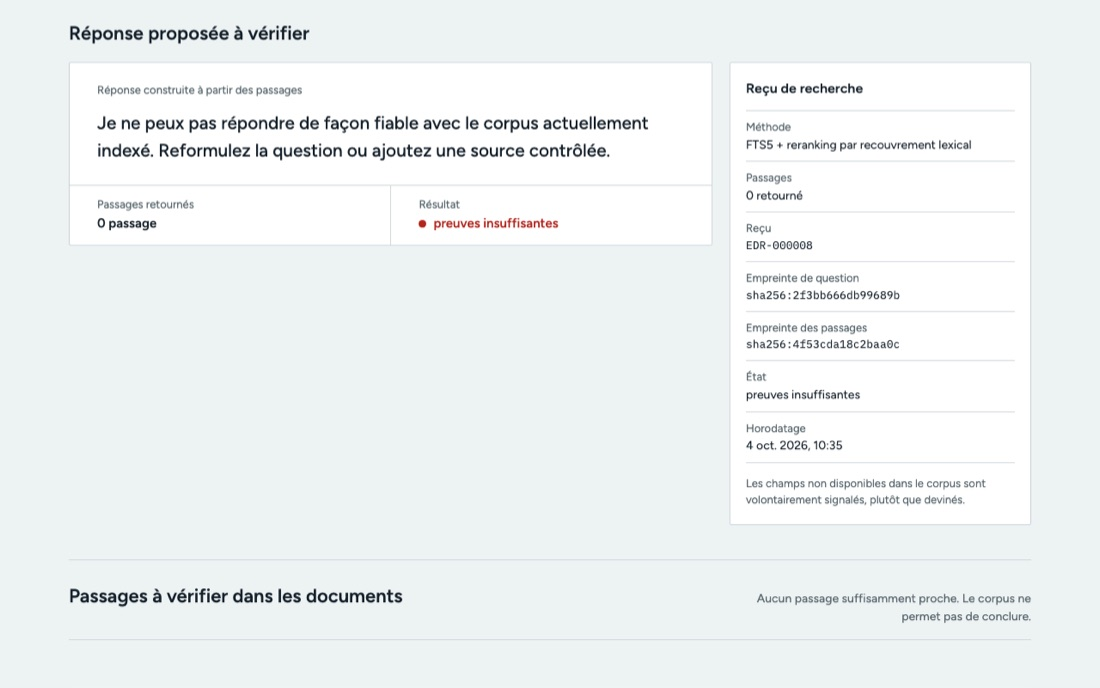
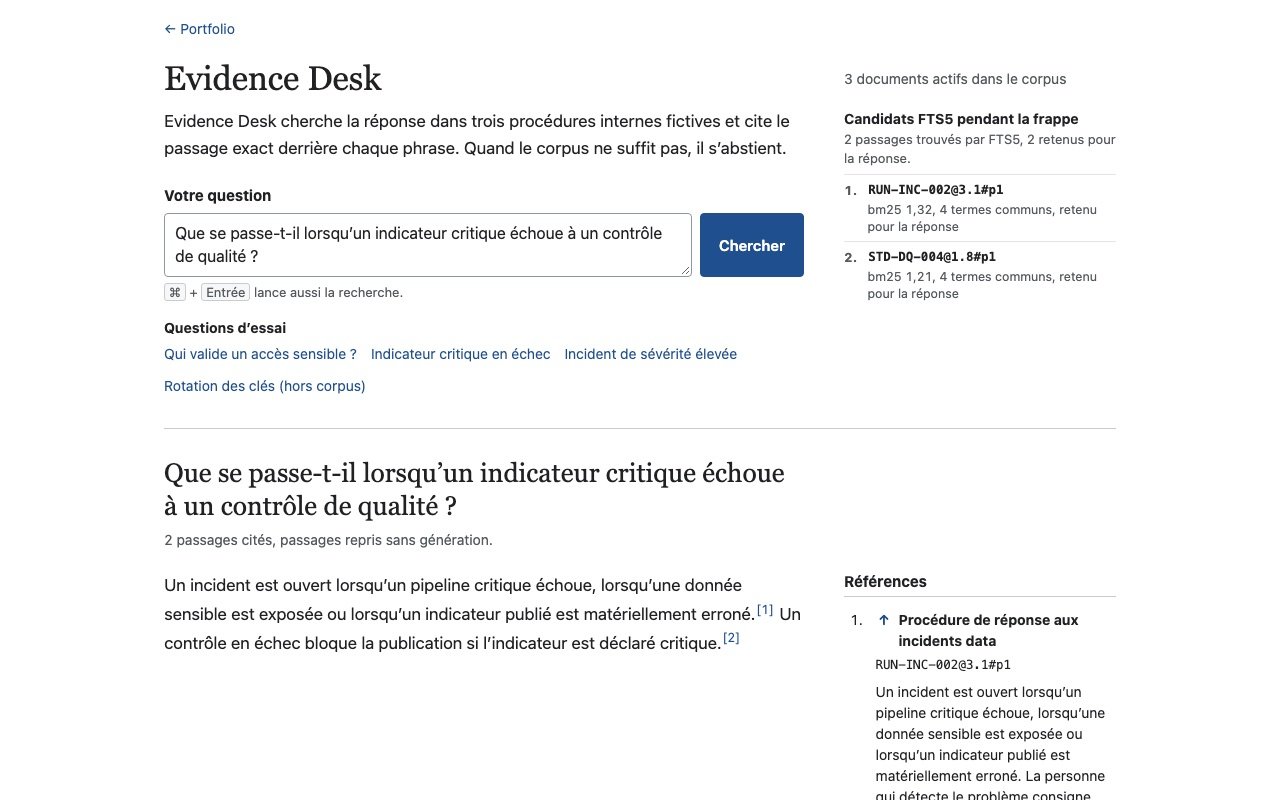
Montrer les démos refaites et dire ce qu'on peut y faire
Six nouvelles captures (état initial de chaque démo), légendes qui décrivent
l'interaction possible, et note Kafka mise à jour : le rejet rejoué de
Routier est désormais reconnaissable.

diff --git a/index.html b/index.html
@@ -13,7 +13,7 @@
     <meta property="og:url" content="https://ikel0.github.io/" />
     <meta property="og:title" content="Ikel Ouedraogo · Data Engineer, Analytics &amp; IA" />
     <meta property="og:description" content="Data Engineer orienté analytics : pipelines fiables, modèles SQL, KPI et dashboards Power BI, et IA appliquée vérifiable." />
-    <meta property="og:image" content="https://ikel0.github.io/media/comptoir.jpg?v=20261005i" />
+    <meta property="og:image" content="https://ikel0.github.io/media/comptoir.jpg?v=20261005k" />
     <meta property="og:locale" content="fr_FR" />
     <meta name="twitter:card" content="summary" />
     <link rel="icon" href="favicon-96x96.png" type="image/png" sizes="96x96" />
@@ -49,12 +49,12 @@
       <section class="section shell" id="projets">
         <div class="section-head"><div><h2>Projets</h2></div><p>Des projets personnels, avec leur code. Les démos hébergées sur Render peuvent mettre 30 à 50 secondes à démarrer.</p></div>
         <div class="project-list">
-          <article class="project-row"><span class="project-number">01</span><div><p class="project-kind">Analytics / note d’analyse</p><h3>Comptoir</h3><p class="project-summary">Note d’analyse sur 96&nbsp;470 commandes réelles d’Olist. 29&nbsp;% des avis à 1 ou 2 étoiles sont déposés avant la livraison, parce que le questionnaire part à la date estimée. Les règles de date de livraison sont calibrées sur 2017 et testées sur 2018 : recalculer la date par trajet ne fait pas mieux qu’Olist, et la note le dit.</p><div class="project-links"><a href="https://ikel0.github.io/comptoir/" target="_blank" rel="noopener">Note</a><a href="https://github.com/Ikel0/comptoir" target="_blank" rel="noopener">Code</a><a href="https://github.com/Ikel0/comptoir/blob/main/METRICS.md" target="_blank" rel="noopener">Indicateurs</a></div><figure class="project-shot"><img src="media/comptoir.jpg?v=20261005i" width="1280" height="799" loading="lazy" alt="Graphique de la note Comptoir" /><figcaption>À délai égal, une date dépassée s’accompagne de 3 à 4 fois plus d’avis à 1 ou 2 étoiles.</figcaption></figure></div><p class="project-stack">DuckDB / dbt / SQL<br />Backtest</p></article>
-          <article class="project-row"><span class="project-number">02</span><div><p class="project-kind">Analytics · Data engineering / retail</p><h3>Retail Core</h3><p class="project-summary">Cockpit retail sur données synthétiques : performance par canal, stock disponible à la promesse, Customer 360 et segmentation RFM. En amont, Airflow et dbt (19 modèles, 78 tests) alimentent les KPI, et une réconciliation ventes / paiements bloque la publication si un chiffre ne tombe pas juste.</p><div class="project-links"><a href="https://ikel0.github.io/retail-core-lakehouse/" target="_blank" rel="noopener">Démo</a><a href="https://github.com/Ikel0/retail-core-lakehouse" target="_blank" rel="noopener">Code</a><a href="https://github.com/Ikel0/retail-core-lakehouse/blob/main/docs/ARCHITECTURE.md" target="_blank" rel="noopener">Architecture</a></div><figure class="project-shot"><img src="media/retail.jpg?v=20261005i" width="1280" height="800" loading="lazy" alt="Capture du tableau de bord Retail Core" /><figcaption>Ventes par canal sur 30 jours, avec le statut du dernier run et la réconciliation.</figcaption></figure></div><p class="project-stack">SQL / dbt / DuckDB<br />Airflow<br />AWS local, Terraform<br />KPI / RFM</p></article>
-          <article class="project-row"><span class="project-number">03</span><div><p class="project-kind">Data engineering / data contracts</p><h3>Pacte</h3><p class="project-summary">Avant une ingestion, Pacte contrôle schéma, validité, clés métier et volume. Il produit une décision d’admission, montre l’impact sur les actifs aval et conserve un reçu idempotent lié aux empreintes du lot et du contrat. La démo n’écrit aucune donnée réelle.</p><div class="project-links"><a href="https://pacte-ikel.onrender.com" target="_blank" rel="noopener">Démo</a><a href="https://github.com/Ikel0/pacte" target="_blank" rel="noopener">Code</a><a href="https://github.com/Ikel0/pacte/blob/main/docs/working-paper.md" target="_blank" rel="noopener">Fiche de travail</a></div><figure class="project-shot"><img src="media/pacte.jpg?v=20261005i" width="1280" height="800" loading="lazy" alt="Capture de la démo Pacte" /><figcaption>Un lot refusé : deux contrôles sur quatre en échec, cinq écarts bloquants.</figcaption></figure></div><p class="project-stack">Python / data contracts<br />Audit idempotent / lineage<br />SQLite</p></article>
-          <article class="project-row"><span class="project-number">04</span><div><p class="project-kind">Data engineering / événements</p><h3>Routier</h3><p class="project-summary">Chaîne Kafka de supervision de télémétrie : validation du contrat, traitement idempotent, événements rejetés, alertes et journal d’ingestion.</p><div class="project-links"><a href="https://routier-ikel.onrender.com" target="_blank" rel="noopener">Démo</a><a href="https://github.com/Ikel0/routier" target="_blank" rel="noopener">Code</a><a href="https://github.com/Ikel0/routier/blob/main/docs/runbook.md" target="_blank" rel="noopener">Runbook</a></div><figure class="project-shot"><img src="media/routier.jpg?v=20261005i" width="1280" height="800" loading="lazy" alt="Capture de la démo Routier" /><figcaption>Compteurs d’ingestion après le scénario, et deux alertes à prendre en charge.</figcaption></figure></div><p class="project-stack">Python<br />Kafka / Redpanda</p></article>
-          <article class="project-row"><span class="project-number">05</span><div><p class="project-kind">IA appliquée / RAG auditable</p><h3>Evidence Desk</h3><p class="project-summary">Espace de recherche documentaire local-first. Chaque réponse expose le passage utilisé, sa version, son autorité, sa fraîcheur et un reçu de retrieval. Si les preuves sont trop faibles, l’outil s’abstient. La suite Golden v2 évalue séparément retrieval, ancrage, traçabilité et refus sûr.</p><div class="project-links"><a href="https://github.com/Ikel0/evidence-desk" target="_blank" rel="noopener">Code</a><a href="https://github.com/Ikel0/evidence-desk/blob/main/docs/working-paper.md" target="_blank" rel="noopener">Fiche de travail</a></div><figure class="project-shot"><img src="media/evidence.jpg?v=20261005i" width="1100" height="688" loading="lazy" alt="Capture d’Evidence Desk" /><figcaption>Une question sans passage suffisant : réponse refusée, état « preuves insuffisantes » et reçu de recherche.</figcaption></figure></div><p class="project-stack">Python / SQLite FTS5<br />Évaluation Golden v2<br />HTTP API</p></article>
-          <article class="project-row"><span class="project-number">06</span><div><p class="project-kind">IA appliquée / opérations data</p><h3>Sillage</h3><p class="project-summary">Assistant de triage d’incidents data. Il relie un incident à un contrat et un runbook versionnés, expose les signaux et la provenance de la décision, puis laisse l’opérateur accepter, challenger ou rejeter le plan. Aucune action sur les données n’est automatisée.</p><div class="project-links"><a href="https://github.com/Ikel0/sillage-ai" target="_blank" rel="noopener">Code</a><a href="https://github.com/Ikel0/sillage-ai/blob/main/docs/working-paper.md" target="_blank" rel="noopener">Dossier technique</a></div><figure class="project-shot"><img src="media/sillage.jpg?v=20261005i" width="1280" height="800" loading="lazy" alt="Capture de Sillage" /><figcaption>Triage d’INC-2407 : signaux observés, score de correspondance décomposé et actions proposées, sans exécution.</figcaption></figure></div><p class="project-stack">FastAPI / SQLite<br />Docker / CI</p></article>
+          <article class="project-row"><span class="project-number">01</span><div><p class="project-kind">Analytics / note d’analyse</p><h3>Comptoir</h3><p class="project-summary">Note d’analyse sur 96&nbsp;470 commandes réelles d’Olist. 29&nbsp;% des avis à 1 ou 2 étoiles sont déposés avant la livraison, parce que le questionnaire part à la date estimée. Les règles de date de livraison sont calibrées sur 2017 et testées sur 2018 : recalculer la date par trajet ne fait pas mieux qu’Olist, et la note le dit.</p><div class="project-links"><a href="https://ikel0.github.io/comptoir/" target="_blank" rel="noopener">Note</a><a href="https://github.com/Ikel0/comptoir" target="_blank" rel="noopener">Code</a><a href="https://github.com/Ikel0/comptoir/blob/main/METRICS.md" target="_blank" rel="noopener">Indicateurs</a></div><figure class="project-shot"><img src="media/comptoir.jpg?v=20261005k" width="1280" height="800" loading="lazy" alt="Graphique de la note Comptoir" /><figcaption>À délai égal, une date dépassée s’accompagne de 3 à 4 fois plus d’avis à 1 ou 2 étoiles.</figcaption></figure></div><p class="project-stack">DuckDB / dbt / SQL<br />Backtest</p></article>
+          <article class="project-row"><span class="project-number">02</span><div><p class="project-kind">Analytics · Data engineering / retail</p><h3>Retail Core</h3><p class="project-summary">Cockpit retail sur données synthétiques : performance par canal, stock disponible à la promesse, Customer 360 et segmentation RFM. En amont, Airflow et dbt (19 modèles, 78 tests) alimentent les KPI, et une réconciliation ventes / paiements bloque la publication si un chiffre ne tombe pas juste.</p><div class="project-links"><a href="https://ikel0.github.io/retail-core-lakehouse/" target="_blank" rel="noopener">Démo</a><a href="https://github.com/Ikel0/retail-core-lakehouse" target="_blank" rel="noopener">Code</a><a href="https://github.com/Ikel0/retail-core-lakehouse/blob/main/docs/ARCHITECTURE.md" target="_blank" rel="noopener">Architecture</a></div><figure class="project-shot"><img src="media/retail.jpg?v=20261005k" width="1280" height="800" loading="lazy" alt="Capture du tableau de bord Retail Core" /><figcaption>Le flash ventes du matin, par canal. Un curseur le recalcule pour n’importe quel jour complet du mois.</figcaption></figure></div><p class="project-stack">SQL / dbt / DuckDB<br />Airflow<br />AWS local, Terraform<br />KPI / RFM</p></article>
+          <article class="project-row"><span class="project-number">03</span><div><p class="project-kind">Data engineering / data contracts</p><h3>Pacte</h3><p class="project-summary">Avant une ingestion, Pacte contrôle schéma, validité, clés métier et volume. Il produit une décision d’admission, montre l’impact sur les actifs aval et conserve un reçu idempotent lié aux empreintes du lot et du contrat. La démo n’écrit aucune donnée réelle.</p><div class="project-links"><a href="https://pacte-ikel.onrender.com" target="_blank" rel="noopener">Démo</a><a href="https://github.com/Ikel0/pacte" target="_blank" rel="noopener">Code</a><a href="https://github.com/Ikel0/pacte/blob/main/docs/working-paper.md" target="_blank" rel="noopener">Fiche de travail</a></div><figure class="project-shot"><img src="media/pacte.jpg?v=20261005k" width="1280" height="800" loading="lazy" alt="Capture de la démo Pacte" /><figcaption>Procès-verbal d’un lot refusé, chaque écart en face de sa ligne. On peut corriger le lot dans le tableau et relancer le contrôle.</figcaption></figure></div><p class="project-stack">Python / data contracts<br />Audit idempotent / lineage<br />SQLite</p></article>
+          <article class="project-row"><span class="project-number">04</span><div><p class="project-kind">Data engineering / événements</p><h3>Routier</h3><p class="project-summary">Chaîne Kafka de supervision de télémétrie : validation du contrat, traitement idempotent, événements rejetés, alertes et journal d’ingestion.</p><div class="project-links"><a href="https://routier-ikel.onrender.com" target="_blank" rel="noopener">Démo</a><a href="https://github.com/Ikel0/routier" target="_blank" rel="noopener">Code</a><a href="https://github.com/Ikel0/routier/blob/main/docs/runbook.md" target="_blank" rel="noopener">Runbook</a></div><figure class="project-shot"><img src="media/routier.jpg?v=20261005k" width="1280" height="800" loading="lazy" alt="Capture de la démo Routier" /><figcaption>La main courante après le scénario de référence. « Lancer le flux » envoie huit messages à l’API, dont un doublon et un rejet.</figcaption></figure></div><p class="project-stack">Python<br />Kafka / Redpanda</p></article>
+          <article class="project-row"><span class="project-number">05</span><div><p class="project-kind">IA appliquée / RAG auditable</p><h3>Evidence Desk</h3><p class="project-summary">Espace de recherche documentaire local-first. Chaque réponse expose le passage utilisé, sa version, son autorité, sa fraîcheur et un reçu de retrieval. Si les preuves sont trop faibles, l’outil s’abstient. La suite Golden v2 évalue séparément retrieval, ancrage, traçabilité et refus sûr.</p><div class="project-links"><a href="https://github.com/Ikel0/evidence-desk" target="_blank" rel="noopener">Code</a><a href="https://github.com/Ikel0/evidence-desk/blob/main/docs/working-paper.md" target="_blank" rel="noopener">Fiche de travail</a></div><figure class="project-shot"><img src="media/evidence.jpg?v=20261005k" width="1280" height="800" loading="lazy" alt="Capture d’Evidence Desk" /><figcaption>Une réponse citée : chaque phrase renvoie à son passage. Écarter une source relance la recherche, jusqu’à l’abstention.</figcaption></figure></div><p class="project-stack">Python / SQLite FTS5<br />Évaluation Golden v2<br />HTTP API</p></article>
+          <article class="project-row"><span class="project-number">06</span><div><p class="project-kind">IA appliquée / opérations data</p><h3>Sillage</h3><p class="project-summary">Assistant de triage d’incidents data. Il relie un incident à un contrat et un runbook versionnés, expose les signaux et la provenance de la décision, puis laisse l’opérateur accepter, contester ou rejeter le plan. Aucune action sur les données n’est automatisée.</p><div class="project-links"><a href="https://github.com/Ikel0/sillage-ai" target="_blank" rel="noopener">Code</a><a href="https://github.com/Ikel0/sillage-ai/blob/main/docs/working-paper.md" target="_blank" rel="noopener">Dossier technique</a></div><figure class="project-shot"><img src="media/sillage.jpg?v=20261005k" width="1280" height="800" loading="lazy" alt="Capture de Sillage" /><figcaption>Fiche INC-2407 : signaux observés et score posé en calcul. Modifier un signal relance le moteur ; la décision reste humaine.</figcaption></figure></div><p class="project-stack">FastAPI / SQLite<br />Docker / CI</p></article>
         </div>
         <section class="atelier" aria-labelledby="atelier-title"><div class="atelier-head"><div><h3 id="atelier-title">Atelier</h3></div><p>Deux prototypes courts, chacun testable en moins d’une minute.</p></div><div class="atelier-list">
           <article class="atelier-item"><div><h4>Metric Lab</h4><p>Rejeter un lot invalide sans toucher au mart, puis reconstruire le lot valide et lire les métriques du jour.</p><div class="atelier-links"><a href="https://metric-lab-ikel.onrender.com" target="_blank" rel="noopener">Démo</a><a href="https://github.com/Ikel0/metric-lab" target="_blank" rel="noopener">Code</a></div></div></article>

diff --git a/en/index.html b/en/index.html
@@ -13,7 +13,7 @@
     <meta property="og:url" content="https://ikel0.github.io/en/" />
     <meta property="og:title" content="Ikel Ouedraogo · Data Engineer, Analytics &amp; AI" />
     <meta property="og:description" content="Analytics-minded Data Engineer: reliable pipelines, SQL models, KPIs and Power BI dashboards, and verifiable applied AI." />
-    <meta property="og:image" content="https://ikel0.github.io/media/comptoir.jpg?v=20261005i" />
+    <meta property="og:image" content="https://ikel0.github.io/media/comptoir.jpg?v=20261005k" />
     <meta property="og:locale" content="en_GB" />
     <meta name="twitter:card" content="summary" />
     <link rel="icon" href="../favicon-96x96.png" type="image/png" sizes="96x96" />
@@ -49,12 +49,12 @@
       <section class="section shell" id="projets">
         <div class="section-head"><div><h2>Projects</h2></div><p>Personal projects, with their code. Demos hosted on Render can take 30 to 50 seconds to wake up.</p></div>
         <div class="project-list">
-          <article class="project-row"><span class="project-number">01</span><div><p class="project-kind">Analytics / analysis memo</p><h3>Comptoir</h3><p class="project-summary">Analysis memo on 96,470 real Olist orders (written in French). 29% of 1- and 2-star reviews are posted before delivery, because the survey is sent on the estimated date. Delivery-date rules are calibrated on 2017 and tested on 2018: recomputing the date per route does no better than Olist, and the memo says so.</p><div class="project-links"><a href="https://ikel0.github.io/comptoir/" target="_blank" rel="noopener">Memo</a><a href="https://github.com/Ikel0/comptoir" target="_blank" rel="noopener">Code</a><a href="https://github.com/Ikel0/comptoir/blob/main/METRICS.md" target="_blank" rel="noopener">Metrics</a></div><figure class="project-shot"><img src="../media/comptoir.jpg?v=20261005i" width="1280" height="799" loading="lazy" alt="Chart from the Comptoir memo" /><figcaption>For the same delivery time, a missed date comes with 3 to 4 times more 1- and 2-star reviews.</figcaption></figure></div><p class="project-stack">DuckDB / dbt / SQL<br />Backtest</p></article>
-          <article class="project-row"><span class="project-number">02</span><div><p class="project-kind">Analytics · Data engineering / retail</p><h3>Retail Core</h3><p class="project-summary">Retail cockpit on synthetic data: performance by channel, available-to-promise stock, Customer 360 and RFM segmentation. Upstream, Airflow and dbt (19 models, 78 tests) feed the KPIs, and a sales / payments reconciliation blocks publication if a figure does not add up.</p><div class="project-links"><a href="https://ikel0.github.io/retail-core-lakehouse/" target="_blank" rel="noopener">Demo</a><a href="https://github.com/Ikel0/retail-core-lakehouse" target="_blank" rel="noopener">Code</a><a href="https://github.com/Ikel0/retail-core-lakehouse/blob/main/docs/ARCHITECTURE.md" target="_blank" rel="noopener">Architecture</a></div><figure class="project-shot"><img src="../media/retail.jpg?v=20261005i" width="1280" height="800" loading="lazy" alt="Screenshot of the Retail Core dashboard" /><figcaption>Sales by channel over 30 days, with the last run’s status and the reconciliation.</figcaption></figure></div><p class="project-stack">SQL / dbt / DuckDB<br />Airflow<br />Local AWS, Terraform<br />KPI / RFM</p></article>
-          <article class="project-row"><span class="project-number">03</span><div><p class="project-kind">Data engineering / data contracts</p><h3>Pacte</h3><p class="project-summary">Before ingestion, Pacte checks schema, validity, business keys and volume. It produces an admission decision, shows the impact on downstream assets and keeps an idempotent receipt tied to the batch and contract fingerprints. The demo writes no real data.</p><div class="project-links"><a href="https://pacte-ikel.onrender.com" target="_blank" rel="noopener">Demo</a><a href="https://github.com/Ikel0/pacte" target="_blank" rel="noopener">Code</a><a href="https://github.com/Ikel0/pacte/blob/main/docs/working-paper.md" target="_blank" rel="noopener">Working paper</a></div><figure class="project-shot"><img src="../media/pacte.jpg?v=20261005i" width="1280" height="800" loading="lazy" alt="Screenshot of the Pacte demo" /><figcaption>A rejected batch: two of four checks failed, five blocking issues.</figcaption></figure></div><p class="project-stack">Python / data contracts<br />Idempotent audit / lineage<br />SQLite</p></article>
-          <article class="project-row"><span class="project-number">04</span><div><p class="project-kind">Data engineering / events</p><h3>Routier</h3><p class="project-summary">Kafka telemetry monitoring pipeline: contract validation, idempotent processing, rejected events, alerts and an ingestion log.</p><div class="project-links"><a href="https://routier-ikel.onrender.com" target="_blank" rel="noopener">Demo</a><a href="https://github.com/Ikel0/routier" target="_blank" rel="noopener">Code</a><a href="https://github.com/Ikel0/routier/blob/main/docs/runbook.md" target="_blank" rel="noopener">Runbook</a></div><figure class="project-shot"><img src="../media/routier.jpg?v=20261005i" width="1280" height="800" loading="lazy" alt="Screenshot of the Routier demo" /><figcaption>Ingestion counters after the scenario, and two alerts waiting to be handled.</figcaption></figure></div><p class="project-stack">Python<br />Kafka / Redpanda</p></article>
-          <article class="project-row"><span class="project-number">05</span><div><p class="project-kind">Applied AI / auditable RAG</p><h3>Evidence Desk</h3><p class="project-summary">Local-first document research workspace. Each answer exposes the passage used, its version, authority, freshness and a retrieval receipt. When the evidence is too weak, the tool abstains. The Golden v2 suite evaluates retrieval, grounding, traceability and safe refusal separately.</p><div class="project-links"><a href="https://github.com/Ikel0/evidence-desk" target="_blank" rel="noopener">Code</a><a href="https://github.com/Ikel0/evidence-desk/blob/main/docs/working-paper.md" target="_blank" rel="noopener">Working paper</a></div><figure class="project-shot"><img src="../media/evidence.jpg?v=20261005i" width="1100" height="688" loading="lazy" alt="Screenshot of Evidence Desk" /><figcaption>A question with no sufficient passage: refused answer, “insufficient evidence” state and search receipt.</figcaption></figure></div><p class="project-stack">Python / SQLite FTS5<br />Golden v2 evaluation<br />HTTP API</p></article>
-          <article class="project-row"><span class="project-number">06</span><div><p class="project-kind">Applied AI / data operations</p><h3>Sillage</h3><p class="project-summary">Data incident triage assistant. It links an incident to a versioned contract and runbook, exposes the signals and provenance behind the decision, then lets the operator accept, challenge or reject the plan. No action on the data is automated.</p><div class="project-links"><a href="https://github.com/Ikel0/sillage-ai" target="_blank" rel="noopener">Code</a><a href="https://github.com/Ikel0/sillage-ai/blob/main/docs/working-paper.md" target="_blank" rel="noopener">Technical paper</a></div><figure class="project-shot"><img src="../media/sillage.jpg?v=20261005i" width="1280" height="800" loading="lazy" alt="Screenshot of Sillage" /><figcaption>Triage of INC-2407: observed signals, itemised match score and proposed actions, nothing executed.</figcaption></figure></div><p class="project-stack">FastAPI / SQLite<br />Docker / CI</p></article>
+          <article class="project-row"><span class="project-number">01</span><div><p class="project-kind">Analytics / analysis memo</p><h3>Comptoir</h3><p class="project-summary">Analysis memo on 96,470 real Olist orders (written in French). 29% of 1- and 2-star reviews are posted before delivery, because the survey is sent on the estimated date. Delivery-date rules are calibrated on 2017 and tested on 2018: recomputing the date per route does no better than Olist, and the memo says so.</p><div class="project-links"><a href="https://ikel0.github.io/comptoir/" target="_blank" rel="noopener">Memo</a><a href="https://github.com/Ikel0/comptoir" target="_blank" rel="noopener">Code</a><a href="https://github.com/Ikel0/comptoir/blob/main/METRICS.md" target="_blank" rel="noopener">Metrics</a></div><figure class="project-shot"><img src="../media/comptoir.jpg?v=20261005k" width="1280" height="800" loading="lazy" alt="Chart from the Comptoir memo" /><figcaption>For the same delivery time, a missed date comes with 3 to 4 times more 1- and 2-star reviews.</figcaption></figure></div><p class="project-stack">DuckDB / dbt / SQL<br />Backtest</p></article>
+          <article class="project-row"><span class="project-number">02</span><div><p class="project-kind">Analytics · Data engineering / retail</p><h3>Retail Core</h3><p class="project-summary">Retail cockpit on synthetic data: performance by channel, available-to-promise stock, Customer 360 and RFM segmentation. Upstream, Airflow and dbt (19 models, 78 tests) feed the KPIs, and a sales / payments reconciliation blocks publication if a figure does not add up.</p><div class="project-links"><a href="https://ikel0.github.io/retail-core-lakehouse/" target="_blank" rel="noopener">Demo</a><a href="https://github.com/Ikel0/retail-core-lakehouse" target="_blank" rel="noopener">Code</a><a href="https://github.com/Ikel0/retail-core-lakehouse/blob/main/docs/ARCHITECTURE.md" target="_blank" rel="noopener">Architecture</a></div><figure class="project-shot"><img src="../media/retail.jpg?v=20261005k" width="1280" height="800" loading="lazy" alt="Screenshot of the Retail Core dashboard" /><figcaption>The morning sales flash, by channel. A slider recomputes it for any complete day of the month.</figcaption></figure></div><p class="project-stack">SQL / dbt / DuckDB<br />Airflow<br />Local AWS, Terraform<br />KPI / RFM</p></article>
+          <article class="project-row"><span class="project-number">03</span><div><p class="project-kind">Data engineering / data contracts</p><h3>Pacte</h3><p class="project-summary">Before ingestion, Pacte checks schema, validity, business keys and volume. It produces an admission decision, shows the impact on downstream assets and keeps an idempotent receipt tied to the batch and contract fingerprints. The demo writes no real data.</p><div class="project-links"><a href="https://pacte-ikel.onrender.com" target="_blank" rel="noopener">Demo</a><a href="https://github.com/Ikel0/pacte" target="_blank" rel="noopener">Code</a><a href="https://github.com/Ikel0/pacte/blob/main/docs/working-paper.md" target="_blank" rel="noopener">Working paper</a></div><figure class="project-shot"><img src="../media/pacte.jpg?v=20261005k" width="1280" height="800" loading="lazy" alt="Screenshot of the Pacte demo" /><figcaption>Inspection report for a rejected batch, each issue next to its row. You can fix the batch in the table and rerun the checks.</figcaption></figure></div><p class="project-stack">Python / data contracts<br />Idempotent audit / lineage<br />SQLite</p></article>
+          <article class="project-row"><span class="project-number">04</span><div><p class="project-kind">Data engineering / events</p><h3>Routier</h3><p class="project-summary">Kafka telemetry monitoring pipeline: contract validation, idempotent processing, rejected events, alerts and an ingestion log.</p><div class="project-links"><a href="https://routier-ikel.onrender.com" target="_blank" rel="noopener">Demo</a><a href="https://github.com/Ikel0/routier" target="_blank" rel="noopener">Code</a><a href="https://github.com/Ikel0/routier/blob/main/docs/runbook.md" target="_blank" rel="noopener">Runbook</a></div><figure class="project-shot"><img src="../media/routier.jpg?v=20261005k" width="1280" height="800" loading="lazy" alt="Screenshot of the Routier demo" /><figcaption>The operations log after the reference scenario. “Lancer le flux” sends eight messages to the API, including a duplicate and a rejection.</figcaption></figure></div><p class="project-stack">Python<br />Kafka / Redpanda</p></article>
+          <article class="project-row"><span class="project-number">05</span><div><p class="project-kind">Applied AI / auditable RAG</p><h3>Evidence Desk</h3><p class="project-summary">Local-first document research workspace. Each answer exposes the passage used, its version, authority, freshness and a retrieval receipt. When the evidence is too weak, the tool abstains. The Golden v2 suite evaluates retrieval, grounding, traceability and safe refusal separately.</p><div class="project-links"><a href="https://github.com/Ikel0/evidence-desk" target="_blank" rel="noopener">Code</a><a href="https://github.com/Ikel0/evidence-desk/blob/main/docs/working-paper.md" target="_blank" rel="noopener">Working paper</a></div><figure class="project-shot"><img src="../media/evidence.jpg?v=20261005k" width="1280" height="800" loading="lazy" alt="Screenshot of Evidence Desk" /><figcaption>A cited answer: each sentence points to its passage. Excluding a source reruns the search, down to abstention.</figcaption></figure></div><p class="project-stack">Python / SQLite FTS5<br />Golden v2 evaluation<br />HTTP API</p></article>
+          <article class="project-row"><span class="project-number">06</span><div><p class="project-kind">Applied AI / data operations</p><h3>Sillage</h3><p class="project-summary">Data incident triage assistant. It links an incident to a versioned contract and runbook, exposes the signals and provenance behind the decision, then lets the operator accept, challenge or reject the plan. No action on the data is automated.</p><div class="project-links"><a href="https://github.com/Ikel0/sillage-ai" target="_blank" rel="noopener">Code</a><a href="https://github.com/Ikel0/sillage-ai/blob/main/docs/working-paper.md" target="_blank" rel="noopener">Technical paper</a></div><figure class="project-shot"><img src="../media/sillage.jpg?v=20261005k" width="1280" height="800" loading="lazy" alt="Screenshot of Sillage" /><figcaption>Incident INC-2407: observed signals and the match score laid out as a sum. Changing a signal reruns the engine; the decision stays human.</figcaption></figure></div><p class="project-stack">FastAPI / SQLite<br />Docker / CI</p></article>
         </div>
         <section class="atelier" aria-labelledby="atelier-title"><div class="atelier-head"><div><h3 id="atelier-title">Workshop</h3></div><p>Two short prototypes, each testable in under a minute.</p></div><div class="atelier-list">
           <article class="atelier-item"><div><h4>Metric Lab</h4><p>Reject an invalid batch without touching the mart, then rebuild the valid batch and read the daily metrics.</p><div class="atelier-links"><a href="https://metric-lab-ikel.onrender.com" target="_blank" rel="noopener">Demo</a><a href="https://github.com/Ikel0/metric-lab" target="_blank" rel="noopener">Code</a></div></div></article>

diff --git a/notes/idempotence.html b/notes/idempotence.html
@@ -34,7 +34,7 @@
         <p>La KIP-939 permettrait à un producteur transactionnel de participer à un commit en deux phases piloté de l’extérieur, avec <code>prepareTransaction()</code> et <code>completeTransaction()</code>, pour écrire atomiquement dans Kafka et dans une base. Elle est acceptée. Mais au 4 octobre 2026, le ticket KAFKA-15370 est encore ouvert avec 4.5.0 comme version cible, et un sous-ticket résolu indique que les API publiques ont été retirées des versions 4.1 à 4.5. Je la considère donc comme non disponible.</p>
         <h2>Routier au regard de la documentation</h2>
         <p>Routier fait ce que la documentation décrit pour un système externe&nbsp;: <code>enable_auto_commit=False</code>, <code>consumer.commit()</code> seulement après la réponse de l’API ou l’accusé du topic de rejet, et une table SQLite dont la clé primaire <code>event_id</code> absorbe le rejeu via <code>INSERT OR IGNORE</code>. L’API annonce <code>at_least_once_with_idempotent_sink</code>, et c’est le bon libellé.</p>
-        <p>Ma relecture fait ressortir une limite que je n’avais pas notée. Le chemin de rejet n’est pas idempotent&nbsp;: si le worker s’arrête entre l’accusé du topic <code>vehicle.telemetry.invalid.v1</code> et le commit, le même message invalide y sera publié une seconde fois. Le producteur idempotent n’y changerait rien&nbsp;: ce second envoi vient d’un nouveau traitement, pas d’un retry, et le worker recrée de toute façon son producteur à chaque reconnexion. Le message de rejet embarque déjà l’événement complet&nbsp;; je mettrais l’<code>event_id</code> en clé du message ou en champ de premier niveau, pour que celui qui lit ce topic puisse dédoublonner sans ouvrir le contenu.</p>
+        <p>Ma relecture a fait ressortir une limite que je n’avais pas notée. Le chemin de rejet n’était pas idempotent&nbsp;: si le worker s’arrêtait entre l’accusé du topic <code>vehicle.telemetry.invalid.v1</code> et le commit, le même message invalide y était publié une seconde fois. Le producteur idempotent n’y changerait rien&nbsp;: ce second envoi vient d’un nouveau traitement, pas d’un retry, et le worker recrée de toute façon son producteur à chaque reconnexion. Je l’ai <a href="https://github.com/Ikel0/routier/commit/fadb811" target="_blank" rel="noopener">corrigé</a> après cette lecture&nbsp;: chaque rejet porte désormais l’<code>event_id</code> en clé Kafka, ou une empreinte SHA-256 du message quand l’identifiant manque, et un <code>rejection_id</code> stable. Le doublon peut toujours être publié, mais celui qui lit ce topic sait l’écarter.</p>
         <section class="article-sources" aria-labelledby="sources-title"><h2 id="sources-title">Lectures &amp; sources</h2><ul><li><a href="https://kafka.apache.org/43/design/design/" target="_blank" rel="noopener">Apache Kafka 4.3 · Design</a><span>Sémantiques de livraison, transactions, <code>read_committed</code> et cas des systèmes externes.</span></li><li><a href="https://kafka.apache.org/43/configuration/producer-configs/" target="_blank" rel="noopener">Apache Kafka 4.3 · Producer Configs</a><span><code>enable.idempotence</code>, sa valeur par défaut et ses conditions.</span></li><li><a href="https://cwiki.apache.org/confluence/spaces/KAFKA/pages/255071659/KIP-939+Support+Participation+in+2PC" target="_blank" rel="noopener">KIP-939 · Support Participation in 2PC</a><span>Le problème de la double écriture et les API proposées.</span></li><li><a href="https://issues.apache.org/jira/browse/KAFKA-15370" target="_blank" rel="noopener">KAFKA-15370 · Support Participation in 2PC (KIP-939)</a><span>Ticket ouvert, version cible 4.5.0, consulté le 4 octobre 2026.</span></li><li><a href="https://news.ycombinator.com/item?id=45747018" target="_blank" rel="noopener">Hacker News · Kafka is Fast, I’ll use Postgres</a><span>Fil d’octobre 2025 où plusieurs praticiens discutent les limites d’exactly once.</span></li><li><a href="https://www.conduktor.io/blog/kafka-exactly-once-performance-cost" target="_blank" rel="noopener">Conduktor · When Kafka Exactly-Once Semantics Are Worth the Performance Cost</a><span>Plaidoyer pour des consommateurs idempotents, avec les techniques associées.</span></li></ul></section>
         <footer class="article-footer"><a href="index.html">Toutes les notes</a><a href="rag-sources.html">Note suivante</a></footer>
       </article></div>
